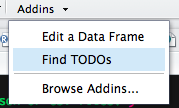
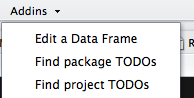
readme modified after new commits

diff --git a/README.md b/README.md
@@ -1,6 +1,6 @@
 # TODOr
 
-This is a simple addin to RStudio, which finds all TODO, FIXME, CHANGED etc. comments in your project and shows them as a markers list.
+This is a simple addin to RStudio, which finds all TODO, FIXME, CHANGED etc. comments in your project (or package) and shows them as a markers list.
 
 # Installation
 
@@ -19,7 +19,7 @@ simple_function <- function(a, b) {
 }
 ```
 
-With *TODOr*, detecting such a places in the forest of code lines is simple. There are several options to do so. You can click at "Addins" button in the top panel and select "Find TODOs" from the list of possible options:
+With *TODOr*, detecting such a places in the forest of code lines is simple. There are several options to do so. You can click at "Addins" button in the top panel and select "Find package TODOs" or "Find project TODOs") from the list of possible options:
 
 ![Addins panel](images/pic1.png)
 
@@ -37,11 +37,13 @@ or you can call:
 
 to limit `todor` for detecting only `"TODO"` tags.
 
+**HINT:** By default `todor` works on projects, but you can call `todor_package` to search entire package.
+
 Regardless of the option that you have chosen, as a result you should see the Markers tab next to your console window in RStudio.
 
 ![TODO Markers](images/pic2.png)
 
-# What it can detect?
+# What can it detect?
 
 - _FIXME_
 - _TODO_
